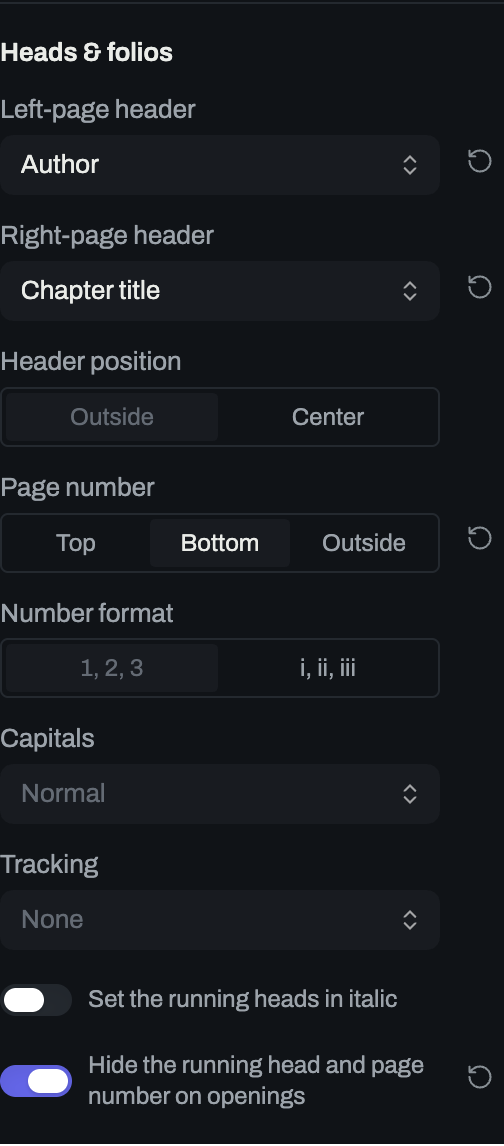
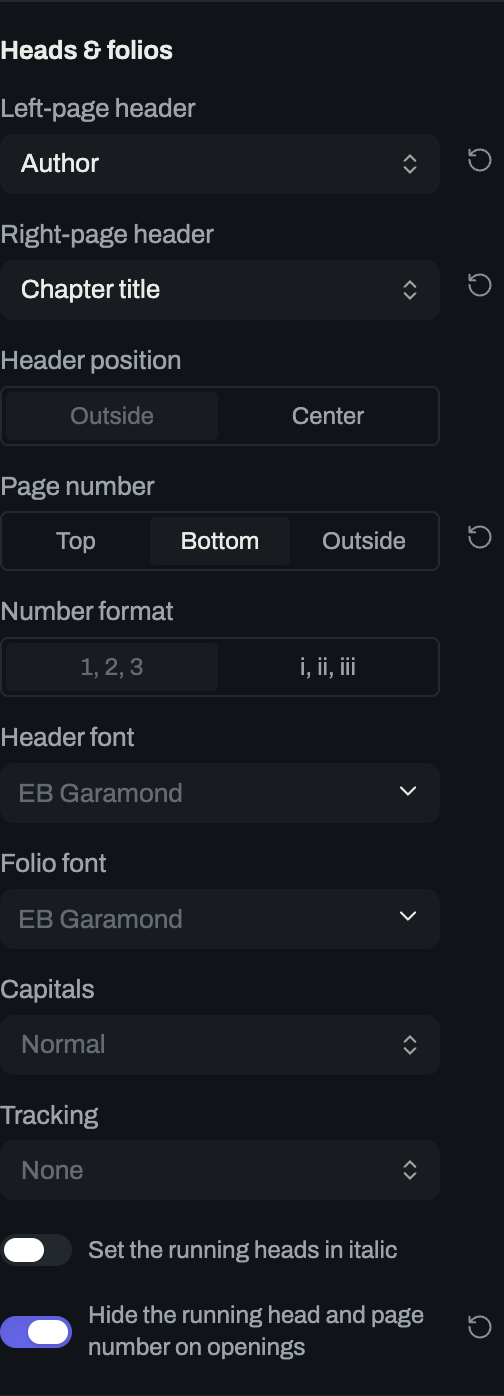
Show the book's font in the two new rows until one is picked
A margin box is set from the book's root the way a paragraph is, so a
head and a folio with no font of their own are set in the book's font.
The effective design fills both keys with it, the way it fills a
heading's font, and the panel and the docs page show it.

diff --git a/src/style/theme.test.ts b/src/style/theme.test.ts
@@ -50,8 +50,8 @@ test("a book that sets nothing sets one font in two sizes, with nothing the engi
 
 test("every design key has a default but a font that is inherited, each font's variant and the scene-break word", () => {
   const variant = (key: string) => key.endsWith("-font-variant");
-  // A heading takes the body's font, and a head and a folio take the
-  // font the page is set in, so neither carries a default of its own.
+  // A heading, a running head and a folio take the body's font, so
+  // none of them carries a default of its own.
   const inherits = (key: string) =>
     /^heading-\d-font$/.test(key) || key === "header-font" || key === "folio-font";
   const optional = (key: string) =>
@@ -61,23 +61,19 @@ test("every design key has a default but a font that is inherited, each font's v
     Object.keys(writeDesign(DEFAULTS)),
     DESIGN_KEYS.filter((key) => !optional(key)),
   );
-  // The panel draws the effective design, where a heading with no font
-  // of its own shows the body font. The default variant is stored as
-  // absent.
+  // The panel draws the effective design, where a heading, a running
+  // head and a folio with no font of their own show the body font. The
+  // default variant is stored as absent.
   const shown = writeDesign(effective(emptyDesign()));
   assert.deepEqual(
     Object.keys(shown),
-    DESIGN_KEYS.filter(
-      (key) =>
-        key !== "scene-break-word" &&
-        key !== "header-font" &&
-        key !== "folio-font" &&
-        !variant(key),
-    ),
+    DESIGN_KEYS.filter((key) => key !== "scene-break-word" && !variant(key)),
   );
   for (const level of LEVELS) {
     assert.equal(shown[`heading-${level}-font`], "EB Garamond");
   }
+  assert.equal(shown["header-font"], "EB Garamond");
+  assert.equal(shown["folio-font"], "EB Garamond");
 });
 
 test("a book's own keys win over the defaults, and a heading follows the body font", () => {

diff --git a/src/ui/groups.test.ts b/src/ui/groups.test.ts
@@ -90,19 +90,14 @@ test("every word the panel draws is spelled the American way", () => {
   }
 });
 
-test("every key the panel writes has a default, except the word a scene break is marked with, a font's variant and the head's and the folio's fonts", () => {
+test("every key the panel writes has a default, except the word a scene break is marked with and a font's variant", () => {
   const defaults = writeDesign(effective(emptyDesign()));
-  // A head and a folio with no font of their own take the font the
-  // page is set in, so neither carries a default of its own.
-  const inherits = ["header-font", "folio-font"];
   for (const key of PANEL_KEYS) {
     // A font's default variant is written as absent.
     if (key === "scene-break-word" || key.endsWith("-font-variant")) continue;
-    if (inherits.includes(key)) continue;
     assert.notEqual(defaults[key], undefined, `\`${key}\` has no default`);
   }
   assert.equal(defaults["scene-break-word"], undefined);
-  for (const key of inherits) assert.equal(defaults[key], undefined);
 });
 
 test("a reset names the default in the words the control draws it with", () => {

diff --git a/src/style/theme.ts b/src/style/theme.ts
@@ -91,7 +91,9 @@ export const DEFAULTS: Design = frozen({
 /**
  * Fills in every default under a design. A heading level with no font
  * of its own takes the body's font and variant as a pair. A level with
- * its own font and no variant keeps that font's default.
+ * its own font and no variant keeps that font's default. The running
+ * heads and the folios take the body's font, because a margin box is
+ * set from the book's root the way a paragraph is.
  */
 export function effective(design: Design): Design {
   const merged = mergeDesign(structuredClone(DEFAULTS), design);
@@ -104,6 +106,8 @@ export function effective(design: Design): Design {
     if (fontVariant === undefined) delete type.fontVariant;
     else type.fontVariant = fontVariant;
   }
+  merged.headers.font ??= font;
+  merged.headers.folioFont ??= font;
   return merged;
 }
 

diff --git a/design/README.md b/design/README.md
@@ -147,7 +147,8 @@ its editor around these files and returns a URL. The artboard list and
   another, because a head is usually set in another face than the text
   and a folio in another face again. Neither row has a Variant row, so
   each sets in its family's default variant. A head or a folio with no
-  font of its own is set in the book's font.
+  font of its own is set in the book's font, and its row shows that
+  font the way a heading's Font row does.
 - A section groups the reading order and gives no role. It is made,
   renamed, dragged and taken out the way a folder is, and an entry
   carries its own role wherever it lands.
